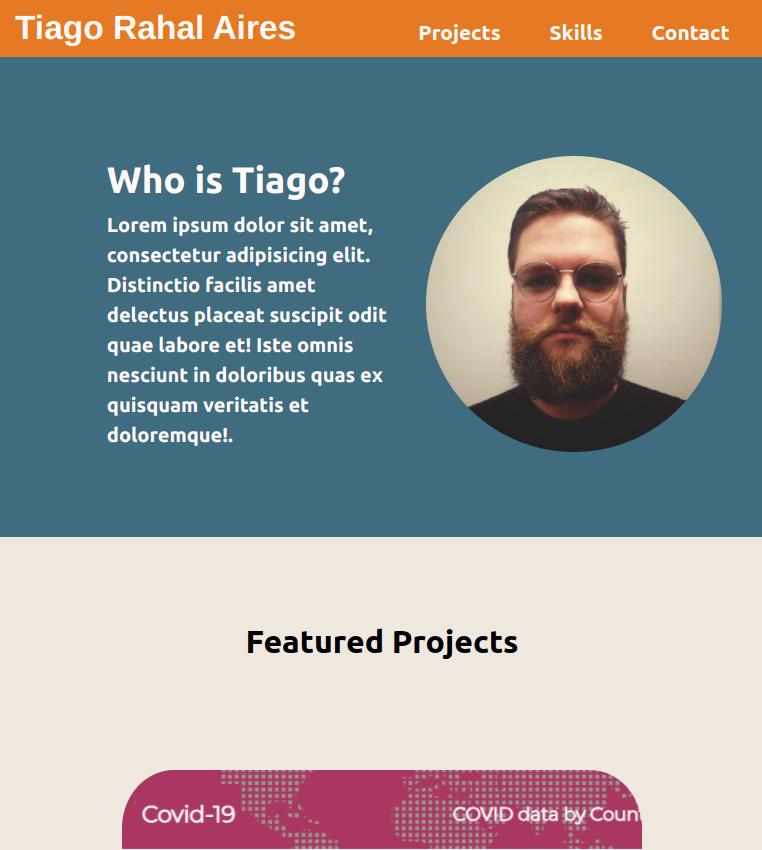
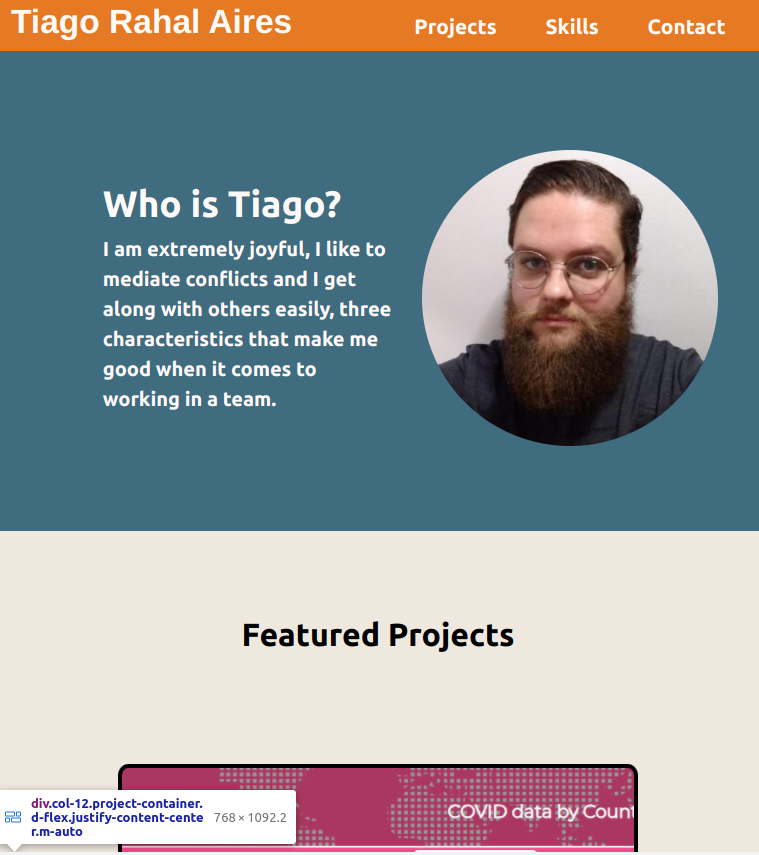
Insert text on profile session, update screenshot

diff --git a/index.html b/index.html
@@ -60,7 +60,7 @@
           <div id="main-text-top" class="col-sm-12 col-md-6">
             <h3 id="title-text-main-top" class="align-self-start fw-bolder">Who is Tiago?</h3>
             <p id="text-top" class="fw-bold">
-              Lorem ipsum dolor sit amet, consectetur adipisicing elit. Distinctio facilis amet delectus placeat suscipit odit quae labore et! Iste omnis nesciunt in doloribus quas ex quisquam veritatis et doloremque!.
+              I am extremely joyful, I like to mediate conflicts and I get along with others easily, three characteristics that make me good when it comes to working in a team.
             </p>
           </div>
           <div class="col-sm-12 col-md-5 col-lg-4">
@@ -129,9 +129,9 @@
               </figure>
             </div>
             <div class="col-sm-12 col-lg-6 text-project-div">
-              <h4 class="project-title">Lorem Ipsum</h4>
+              <h4 class="project-title">Restaurants</h4>
               <p class="project-text">
-                Lorem ipsum dolor sit amet consectetur adipisicing elit. Illum animi recusandae obcaecati. Amet reprehenderit aperiam quas provident.
+                Check your region's top restaurants and make reservations to eat in them!
               </p>
               <p>
                 <b class="project-text-features">
